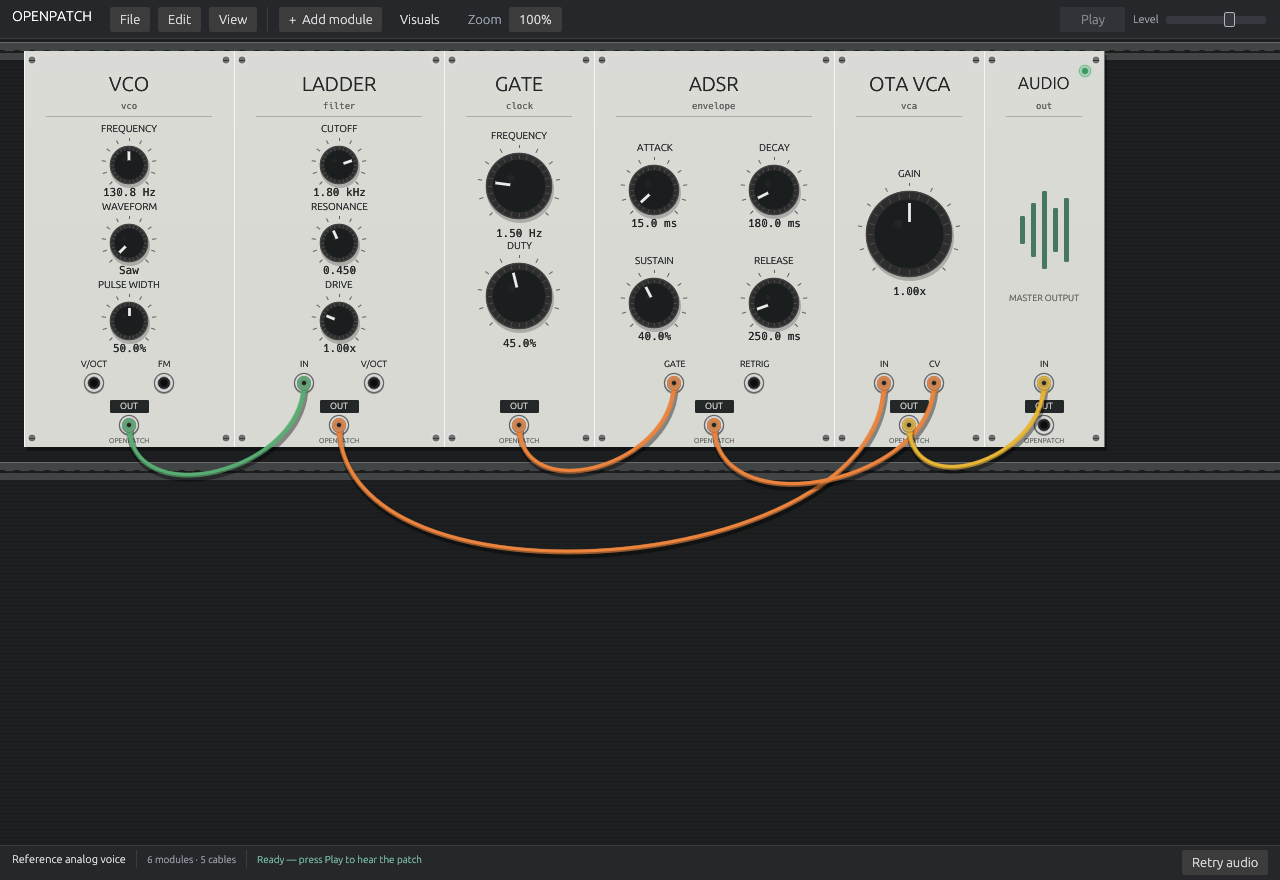
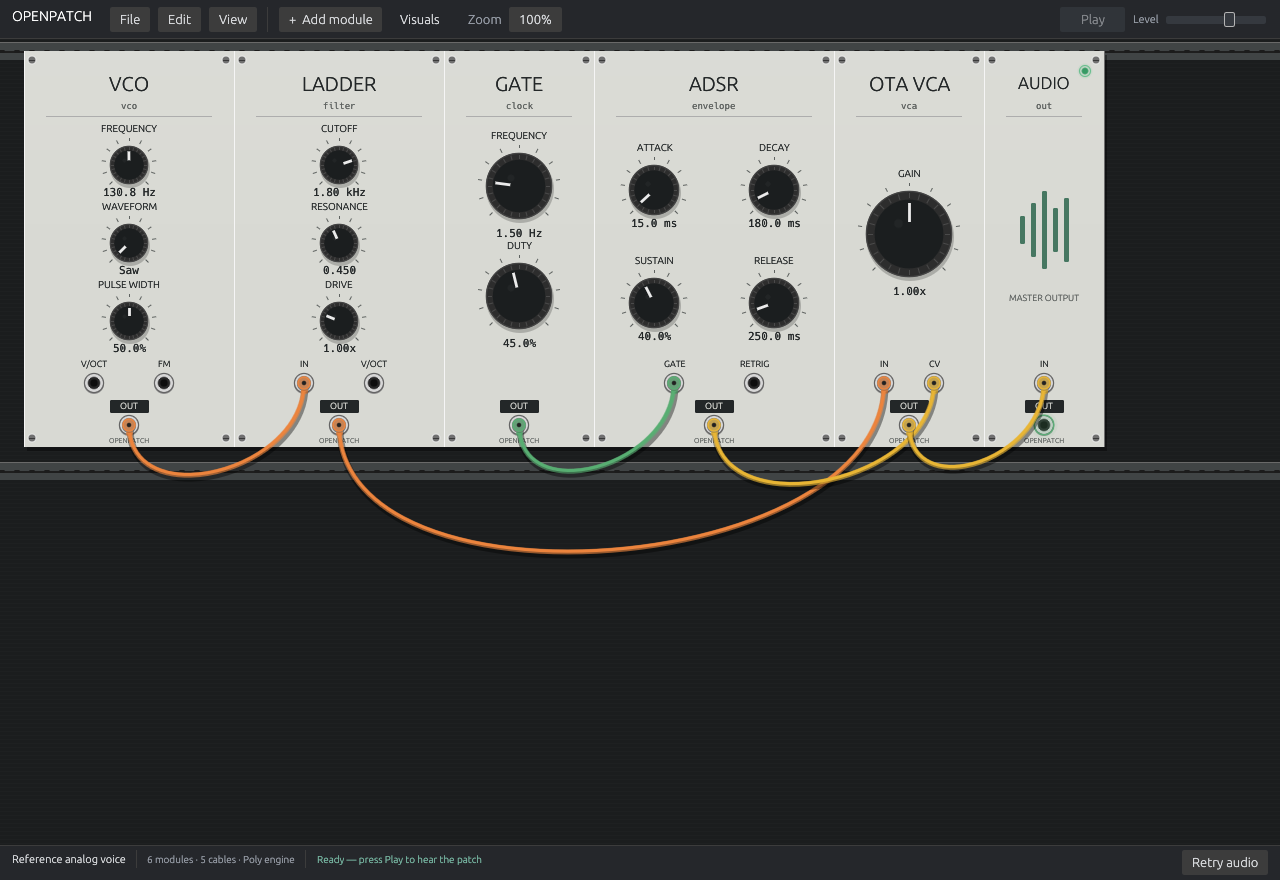
Show the polyphonic voice and refreshed native rack screenshots [skip ci]

diff --git a/README.md b/README.md
@@ -90,6 +90,23 @@ contracts, not an imported VCV project.
 
 </details>
 
+<details>
+<summary><strong>Play a polyphonic analog voice</strong></summary>
+
+![Three-note polyphonic voice with voltage source, oscillator, ladder filter, envelope, VCA, and explicit mono sum](docs/images/openpatch-polyphonic.png)
+
+Choose **File → Polyphonic voice**. Three pitch voltages drive independent
+oscillator, filter, and VCA states; one envelope controls all three voices.
+Change the first three voltage fields to reshape the chord. **SUM** combines
+the voices before the audio output. Split and Merge provide individual access
+to up to 16 channels for more elaborate routing.
+
+<sub>Native Linux / Mesa CI render. Sixteen-channel routing is supported;
+sixteen full circuit voices still exceed realtime CPU capacity in the
+[published M1 Max benchmark](docs/PERFORMANCE.md).</sub>
+
+</details>
+
 ## Claude & Codex
 
 Follow the [MCP setup guide](docs/MCP.md) for Claude Code, Claude Desktop, or Codex configuration. The client launches OpenPatch with `--mcp` and controls the live patch in that window. Press **Play** locally to audition changes; agents can also export WAV files without speaker playback.
